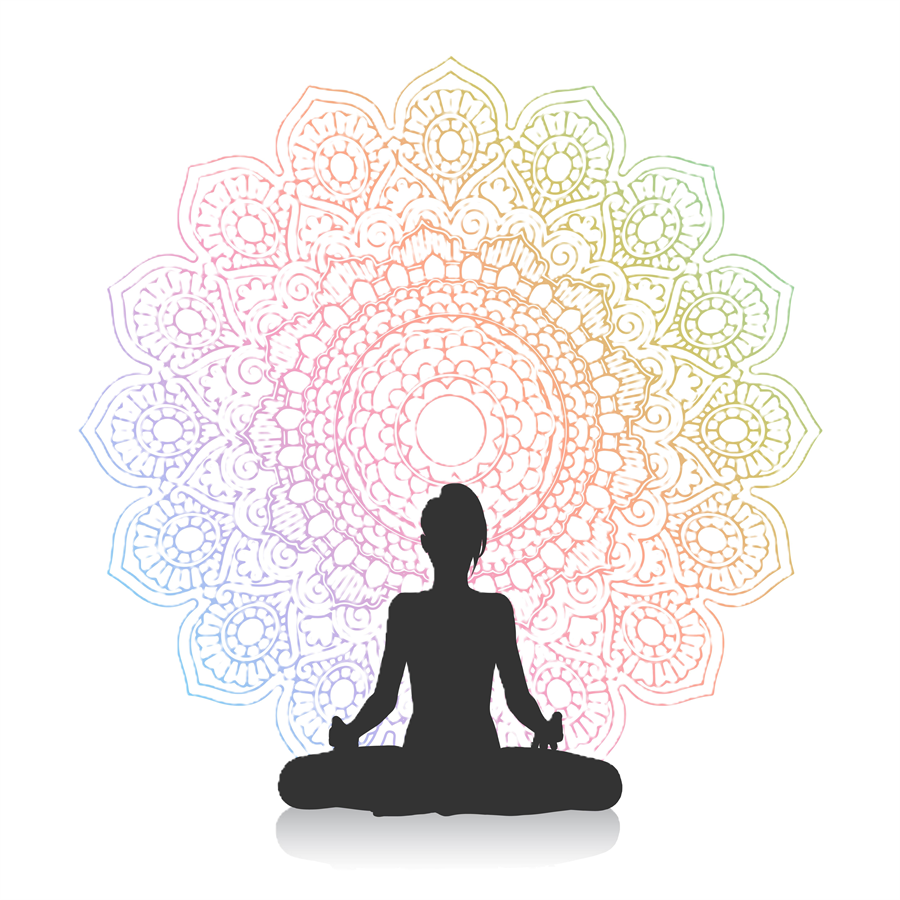
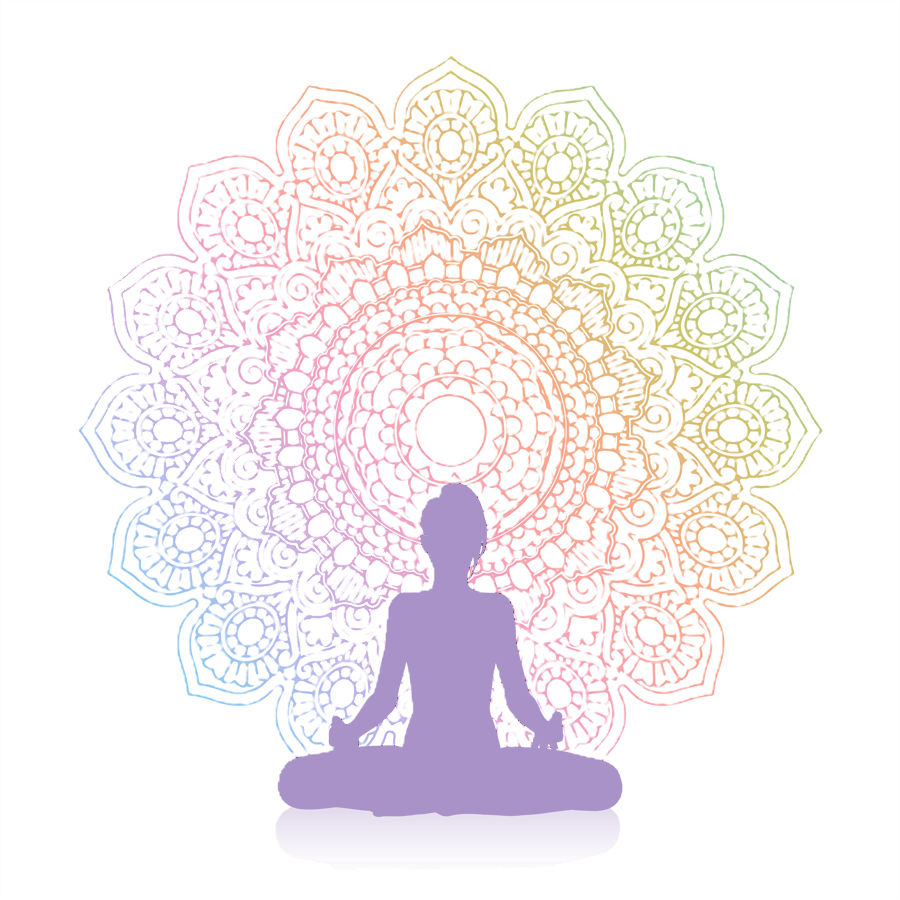
Mandala watermark: soft lavender figure, back to 50% opacity
At 10% the mandala's pastel line work disappeared. The real problem was
the near-black meditating silhouette in the same image, which loomed
behind headings at 50%. Recolour the silhouette and its shadow to a
soft lavender in the mandala's palette (coloured line work untouched)
and restore 50% opacity on all three pages.

Claude-Session: https://claude.ai/code/session_01PWZSt4fzAzjiRJuWAaviSp

Changed region(s): [[0.3111, 0.5289, 0.7156, 0.9333]]

diff --git a/index.html b/index.html
@@ -207,7 +207,7 @@
             background-repeat: no-repeat;
             background-position: center;
             background-size: min(900px, 85vmin);
-            opacity: 0.1;
+            opacity: 0.5;
             /* subtle */
             filter: blur(0px);
             /* optional */

diff --git a/vibroacoustic/index.html b/vibroacoustic/index.html
@@ -192,7 +192,7 @@
             background-repeat: no-repeat;
             background-position: center;
             background-size: min(900px, 85vmin);
-            opacity: 0.1;
+            opacity: 0.5;
             /* subtle */
             filter: blur(0px);
             /* optional */

diff --git a/yoga/index.html b/yoga/index.html
@@ -186,7 +186,7 @@
             background-repeat: no-repeat;
             background-position: center;
             background-size: min(900px, 85vmin);
-            opacity: 0.1;
+            opacity: 0.5;
             /* subtle */
             filter: blur(0px);
             /* optional */
